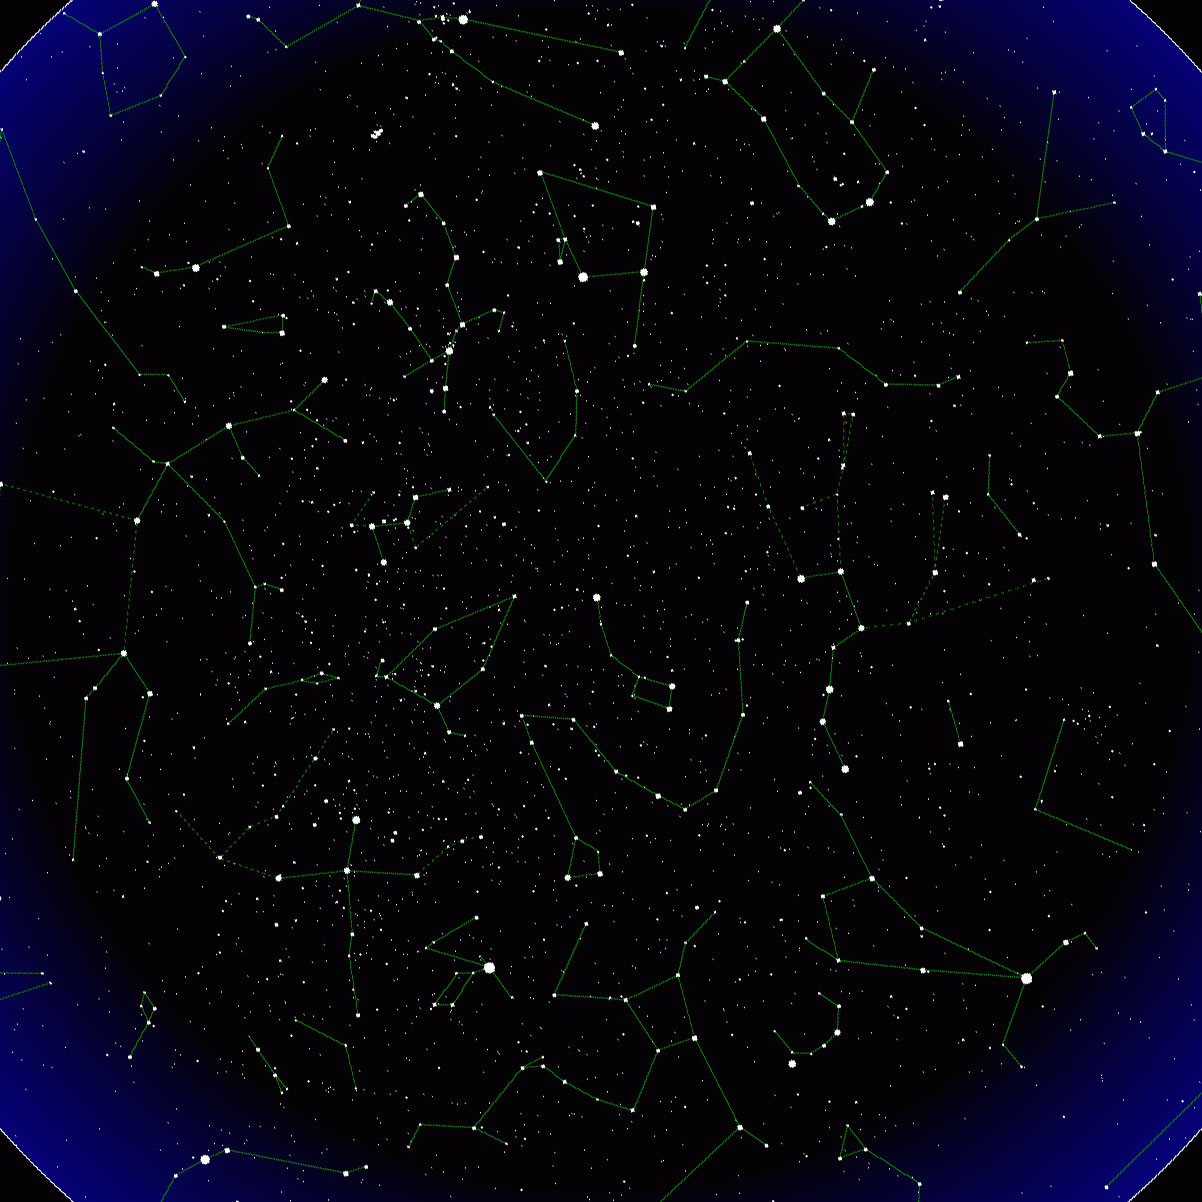
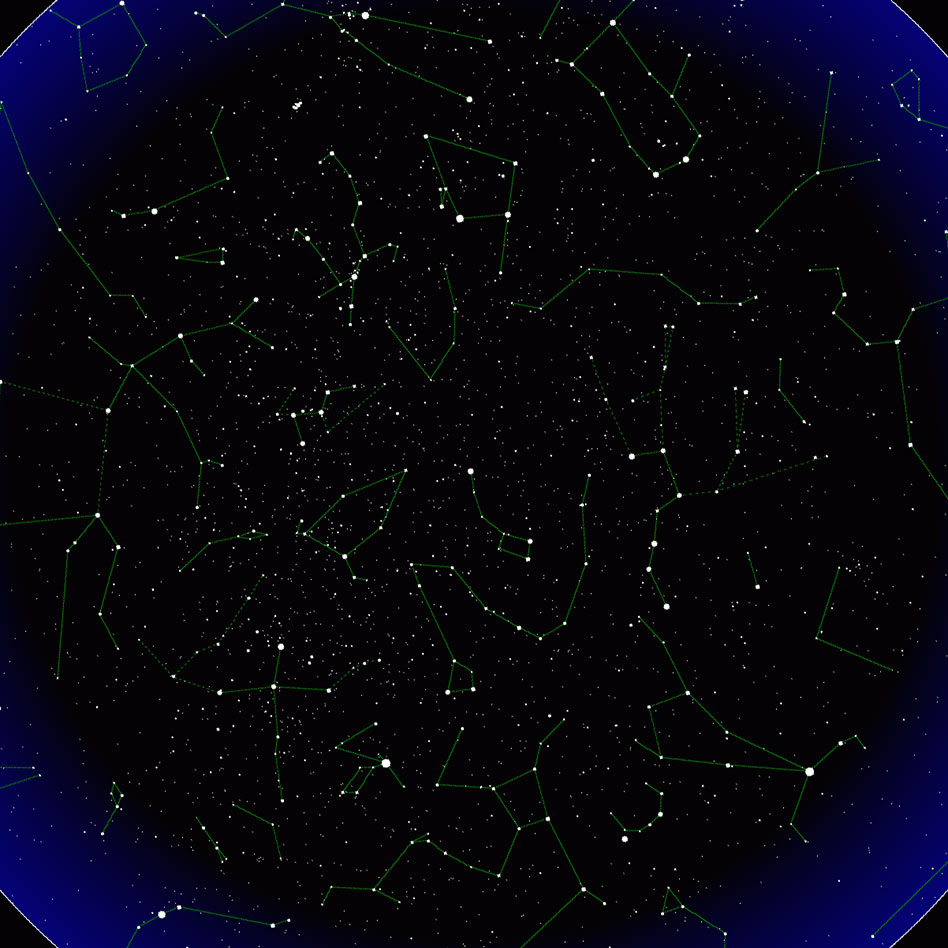
resizing window

diff --git a/style.css b/style.css
@@ -75,15 +75,16 @@ p {
 
 .window {
   position: relative;
-  height: 719px;
+  height: 600px;
+  width: 800px;
   background:black;
   overflow:hidden;
 }
 
 #sky {
   position: relative;
-  top: -401px;
-  left: -81px;
+  top: -305px;
+  left: -74px;
   animation: spin 180s linear infinite;
 }
 
@@ -95,8 +96,8 @@ p {
 
 .border {
   position: absolute;
-  height: 119px;
-  width: 1040px;
+  height: 92px;
+  width: 800px;
   bottom: 0;
   background:url(img/border.jpg) no-repeat;
 }
